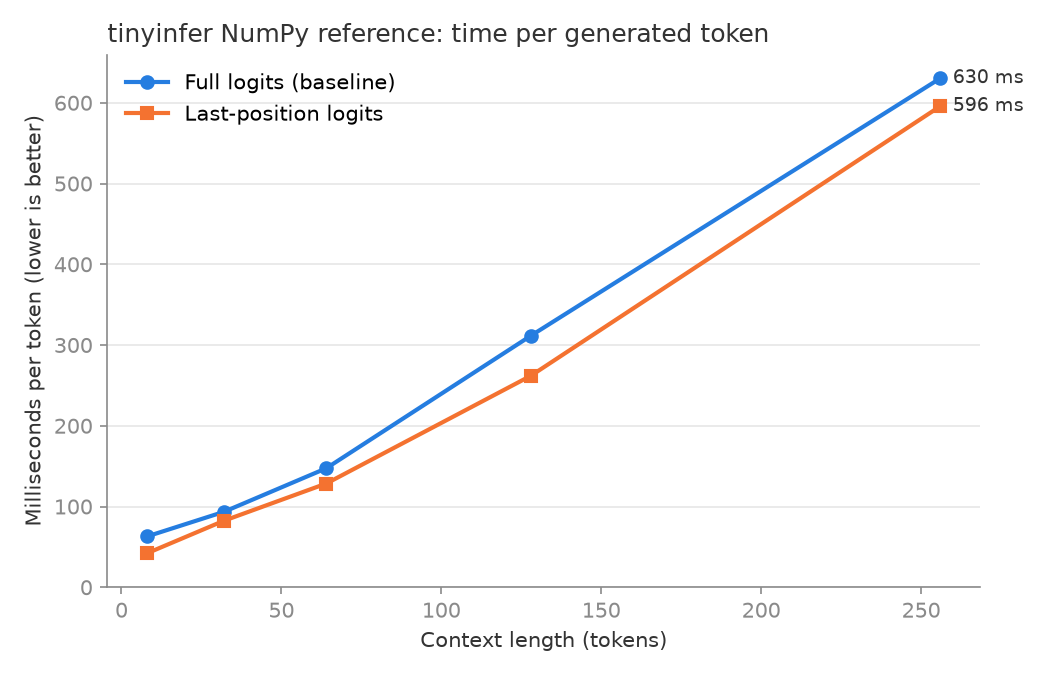
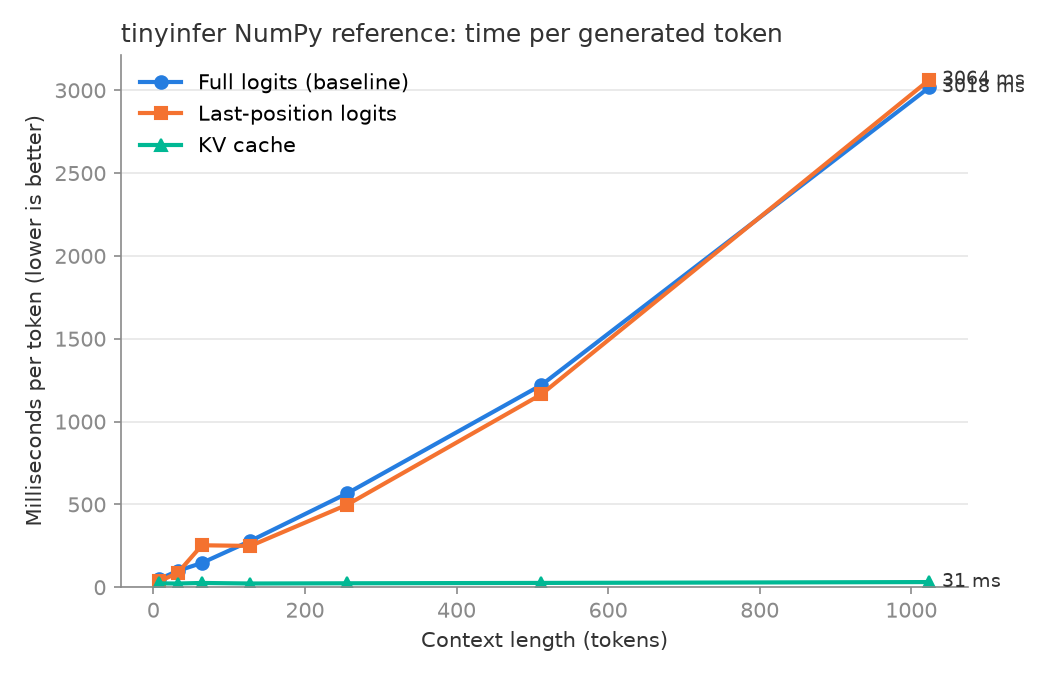
Benchmark KV cache decode steps up to 1024 tokens

Changed region(s): [[0.0305, 0.0933, 0.9752, 0.9644], [0.0914, 0.0311, 0.7619, 0.0622], [0.0305, 0.6844, 0.061, 0.7156]]

diff --git a/bench.py b/bench.py
@@ -1,7 +1,7 @@
 """
 Benchmark the NumPy reference engine.
 
-Measures the time of one decode step (one forward pass) at different context
+Measures the time of one decode step (generating one token) at different context
 lengths. Each measurement is warmed up, repeated, and the median is reported,
 because single timings are noisy.
 
@@ -18,15 +18,40 @@ import numpy as np
 
 from reference.gpt2_numpy import GPT2
 
-LENGTHS = [8, 32, 64, 128, 256]
+LENGTHS = [8, 32, 64, 128, 256, 512, 1024]
 REPEATS = 5
 WARMUP = 2
 OUT_PATH = Path("benchmarks/reference_numpy.json")
 
-# Each variant is one way of running a decode step. Add new ones as the engine improves.
+
+# Each variant takes (model, ids) and returns a zero-argument function that runs
+# ONE decode step at context len(ids). Any setup happens outside the timed function.
+
+def full_step(model, ids):
+    return lambda: model.forward(ids)
+
+
+def last_only_step(model, ids):
+    return lambda: model.forward(ids, last_only=True)
+
+
+def kv_cache_step(model, ids):
+    """One decode step with the first T-1 tokens already in the cache."""
+    cache = model.new_cache()
+    model.forward_cached(ids[:-1], cache)  # prefill: setup, not timed
+    prefilled = cache.length
+
+    def step():
+        cache.length = prefilled           # rewind, so every run does the same work
+        model.forward_cached(ids[-1:], cache)
+
+    return step
+
+
 VARIANTS = {
-    "full": lambda model, ids: model.forward(ids),
-    "last_only": lambda model, ids: model.forward(ids, last_only=True),
+    "full": full_step,
+    "last_only": last_only_step,
+    "kv_cache": kv_cache_step,
 }
 
 
@@ -53,8 +78,8 @@ def main():
     for T in LENGTHS:
         ids = rng.integers(0, 50257, size=T)  # random tokens: content doesn't affect speed
         row = {"context": T}
-        for name, fn in VARIANTS.items():
-            row[name] = median_time(lambda: fn(model, ids))
+        for name, make_step in VARIANTS.items():
+            row[name] = median_time(make_step(model, ids))
         results.append(row)
         print(f"{T:>8} | " + " | ".join(f"{row[name]:>16.1f}" for name in VARIANTS))
 
